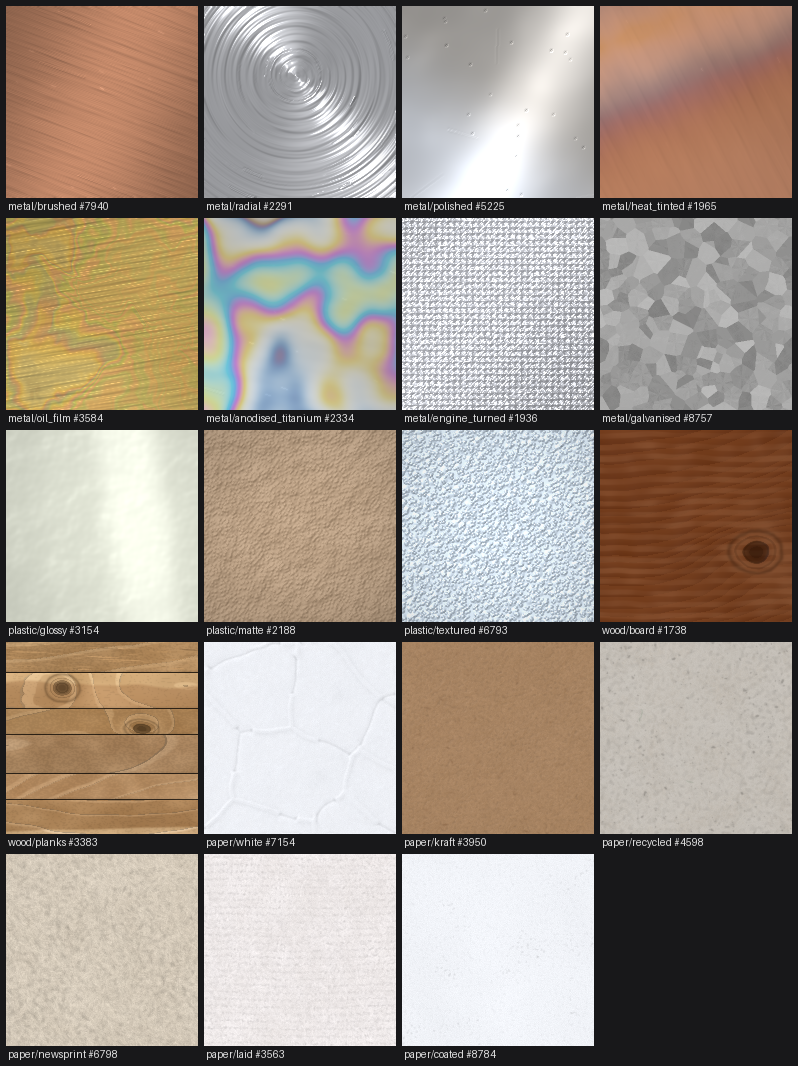
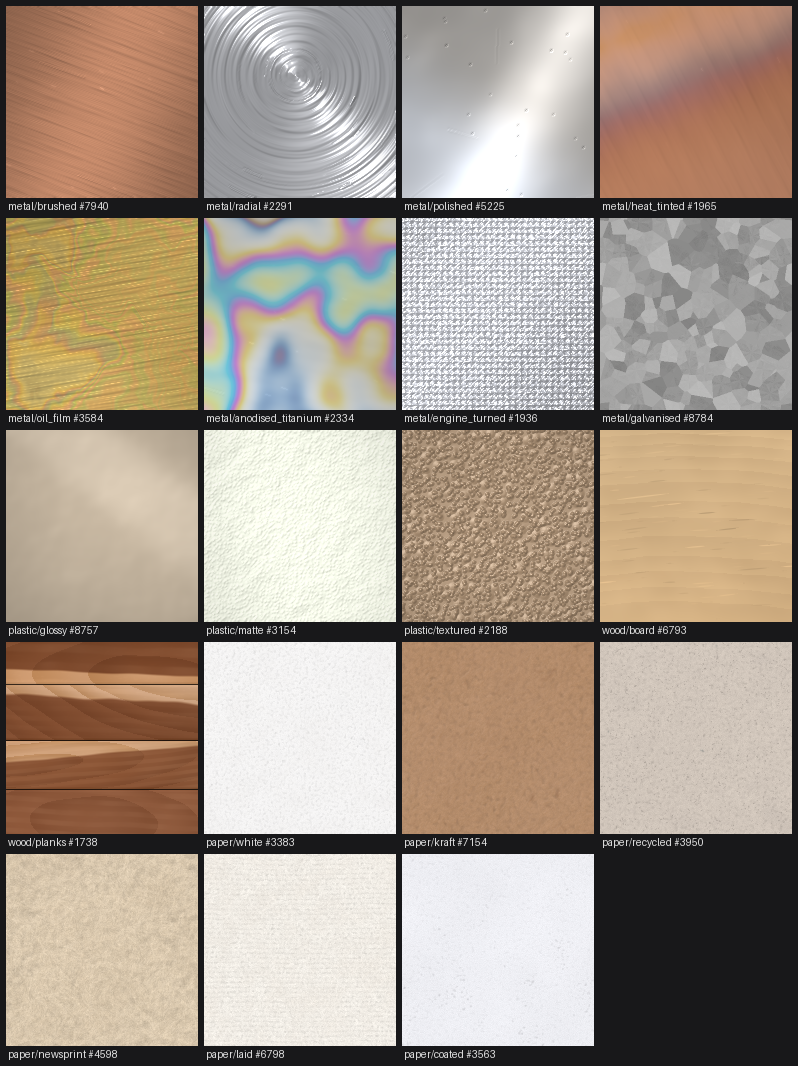
Keep 0.6.0 contact-sheet seeds and guard galvanised edge cases
sample_sheet() draws seeds for opt-in variants after the default ones, so
every non-galvanised tile keeps its 0.6.0 seed, and legacy material params
no longer reach the galvanised tile, which rejects them. The example
contact sheet is regenerated to match.

export_material(overwrite=True) now refuses to replace a directory that is
neither a material bundle nor empty, and an out-of-range --seed with
--variant galvanised is a usage error rather than a traceback.

diff --git a/src/texture_generators/__init__.py b/src/texture_generators/__init__.py
@@ -64,6 +64,12 @@ def all_pairs() -> list[tuple[str, str]]:
     return [(m, v) for m, mod in MATERIALS.items() for v in mod.VARIANTS]
 
 
+def _default_variants(material: str) -> tuple[str, ...]:
+    """Variants a seeded ``variant=None`` call can choose for ``material``."""
+    mod = MATERIALS[material]
+    return tuple(getattr(mod, "DEFAULT_VARIANTS", mod.VARIANTS))
+
+
 def _module(material: str):
     """Look up a material module, raising a helpful ValueError."""
     try:
@@ -284,10 +290,20 @@ def sample_sheet(
     """Contact sheet with one labelled tile per material x variant.
 
     ``size`` is the per-tile size: ``N`` for square tiles or
-    ``(width, height)``.
+    ``(width, height)``. ``params`` apply to the variants seeded selection can
+    choose; opt-in variants such as ``metal/galvanised`` render with their
+    defaults.
     """
     pairs = all_pairs()
     rng = np.random.default_rng(seed)
+    # Opt-in variants draw their tile seeds after every default variant, so
+    # the default tiles keep the seeds they had before those variants existed.
+    opt_in = {(m, v) for m, v in pairs if v not in _default_variants(m)}
+    tile_seeds = {
+        pair: int(rng.integers(0, 2**31 - 1))
+        for pair in [p for p in pairs if p not in opt_in]
+        + [p for p in pairs if p in opt_in]
+    }
     cols = columns or min(4, len(pairs))
     rows = (len(pairs) + cols - 1) // cols
 
@@ -300,8 +316,9 @@ def sample_sheet(
     draw = ImageDraw.Draw(sheet)
 
     for i, (material, variant) in enumerate(pairs):
-        tile_seed = int(rng.integers(0, 2**31 - 1))
-        tile = generate(material, size, seed=tile_seed, variant=variant, **params)
+        tile_seed = tile_seeds[(material, variant)]
+        tile_params = {} if (material, variant) in opt_in else params
+        tile = generate(material, size, seed=tile_seed, variant=variant, **tile_params)
         cx = pad + (i % cols) * cell_w
         cy = pad + (i // cols) * cell_h
         sheet.paste(tile, (cx, cy))

diff --git a/tests/test_generators.py b/tests/test_generators.py
@@ -112,6 +112,34 @@ def test_sample_sheet() -> None:
     assert sheet.width > 48 and sheet.height > 48
 
 
+def test_sample_sheet_keeps_default_tile_seeds_and_params() -> None:
+    """Opt-in variants draw last, so default tiles keep their pre-0.7 seeds.
+
+    Legacy material params still reach the default tiles instead of being
+    rejected by an opt-in tile that does not accept them.
+    """
+    size, pad, label_h, cols = 8, 6, 14, 4
+    pairs = all_pairs()
+    defaults = [
+        (m, v)
+        for m, v in pairs
+        if v in getattr(MATERIALS[m], "DEFAULT_VARIANTS", MATERIALS[m].VARIANTS)
+    ]
+    rng = np.random.default_rng(1)
+    expected = {pair: int(rng.integers(0, 2**31 - 1)) for pair in defaults}
+    sheet = sample_sheet(size=size, seed=1, iridescence=0.3)
+    for pair in [("metal", "brushed"), ("plastic", "glossy"), ("paper", "coated")]:
+        i = pairs.index(pair)
+        x = pad + (i % cols) * (size + pad)
+        y = pad + (i // cols) * (size + label_h + pad)
+        tile = sheet.crop((x, y, x + size, y + size))
+        material, variant = pair
+        want = generate(
+            material, size, seed=expected[pair], variant=variant, iridescence=0.3
+        )
+        assert tile.tobytes() == want.tobytes(), pair
+
+
 def test_noise_does_not_band_repeat_on_tall_canvas() -> None:
     """Gradient noise must not repeat every width pixels on a tall canvas.
 

diff --git a/src/texture_generators/export.py b/src/texture_generators/export.py
@@ -158,6 +158,13 @@ def _write_manifest(root: Path, manifest: Mapping[str, Any]) -> None:
     temporary.rename(root / "material.json")
 
 
+def _replaceable(destination: Path) -> bool:
+    """Whether ``overwrite=True`` may replace ``destination``: a bundle or empty dir."""
+    if destination.is_symlink() or not destination.is_dir():
+        return False
+    return (destination / "material.json").is_file() or not any(destination.iterdir())
+
+
 def _publish(stage: Path, destination: Path, overwrite: bool) -> None:
     if destination.exists() or destination.is_symlink():
         if not overwrite:
@@ -197,6 +204,12 @@ def export_material(
     destination = Path(path)
     if destination.exists() and not overwrite:
         raise FileExistsError(f"material bundle already exists: {destination}")
+    if (destination.exists() or destination.is_symlink()) and not _replaceable(
+        destination
+    ):
+        raise FileExistsError(
+            f"refusing to overwrite {destination}: not a material bundle or empty directory"
+        )
     if not destination.parent.is_dir():
         raise FileNotFoundError(f"bundle parent does not exist: {destination.parent}")
     stage = Path(

diff --git a/src/texture_generators/cli.py b/src/texture_generators/cli.py
@@ -389,13 +389,17 @@ def _material_command(material: str) -> click.Command:
                 from .materials.galvanised import GENERATOR_VERSION
 
                 dimensions = (size, size) if isinstance(size, int) else size
-                resolved_recipe = recipe.resolve(size=dimensions)
+                try:
+                    material_key = material_key_from_rng(make_rng(seed_i))
+                    resolved_recipe = recipe.resolve(size=dimensions)
+                except (TypeError, ValueError) as exc:
+                    raise click.UsageError(str(exc)) from exc
                 extra["galvanised"] = {
                     "size_mm": list(resolved_recipe.size_mm or ()),
                     "preset": recipe.preset,
                     "preset_version": recipe.preset_version,
                     "generator_version": GENERATOR_VERSION,
-                    "material_key": material_key_from_rng(make_rng(seed_i)),
+                    "material_key": material_key,
                     "preview_rig": "studio",
                 }
             try:

diff --git a/tests/test_galvanised_export.py b/tests/test_galvanised_export.py
@@ -141,6 +141,21 @@ def test_explicit_overwrite_replaces_bundle(tmp_path: Path) -> None:
     assert not list(tmp_path.glob(".bundle.old-*"))
 
 
+def test_overwrite_refuses_directory_that_is_not_a_bundle(tmp_path: Path) -> None:
+    path = tmp_path / "notes"
+    path.mkdir()
+    (path / "notes.txt").write_text("keep me")
+    with pytest.raises(FileExistsError, match="not a material bundle"):
+        export_material(_fixture(), path, overwrite=True)
+    assert (path / "notes.txt").read_text() == "keep me"
+    assert not list(tmp_path.glob(".notes.staging-*"))
+
+    empty = tmp_path / "empty"
+    empty.mkdir()
+    export_material(_fixture(), empty, overwrite=True)
+    assert (empty / "material.json").is_file()
+
+
 def test_checksum_and_path_escape_are_rejected(tmp_path: Path) -> None:
     path = tmp_path / "bundle"
     manifest_path = export_material(_fixture(), path)

diff --git a/tests/test_cli_click.py b/tests/test_cli_click.py
@@ -489,3 +489,25 @@ def test_shell_completion() -> None:
     assert "#compdef texture-gen" in result.stdout
     assert "_texture_gen_completion" in result.stdout
     assert "compdef _texture_gen_completion texture-gen" in result.stdout
+
+
+@pytest.mark.parametrize("seed", ["-1", str(2**64)])
+def test_galvanised_out_of_range_seed_is_a_usage_error(
+    runner: CliRunner, tmp_path: Path, seed: str
+) -> None:
+    result = runner.invoke(
+        main,
+        [
+            "metal",
+            "--variant",
+            "galvanised",
+            "--size",
+            "8",
+            "--seed",
+            seed,
+            "-o",
+            str(tmp_path / "out.png"),
+        ],
+    )
+    assert result.exit_code == 2, result.output
+    assert "Traceback" not in result.output
